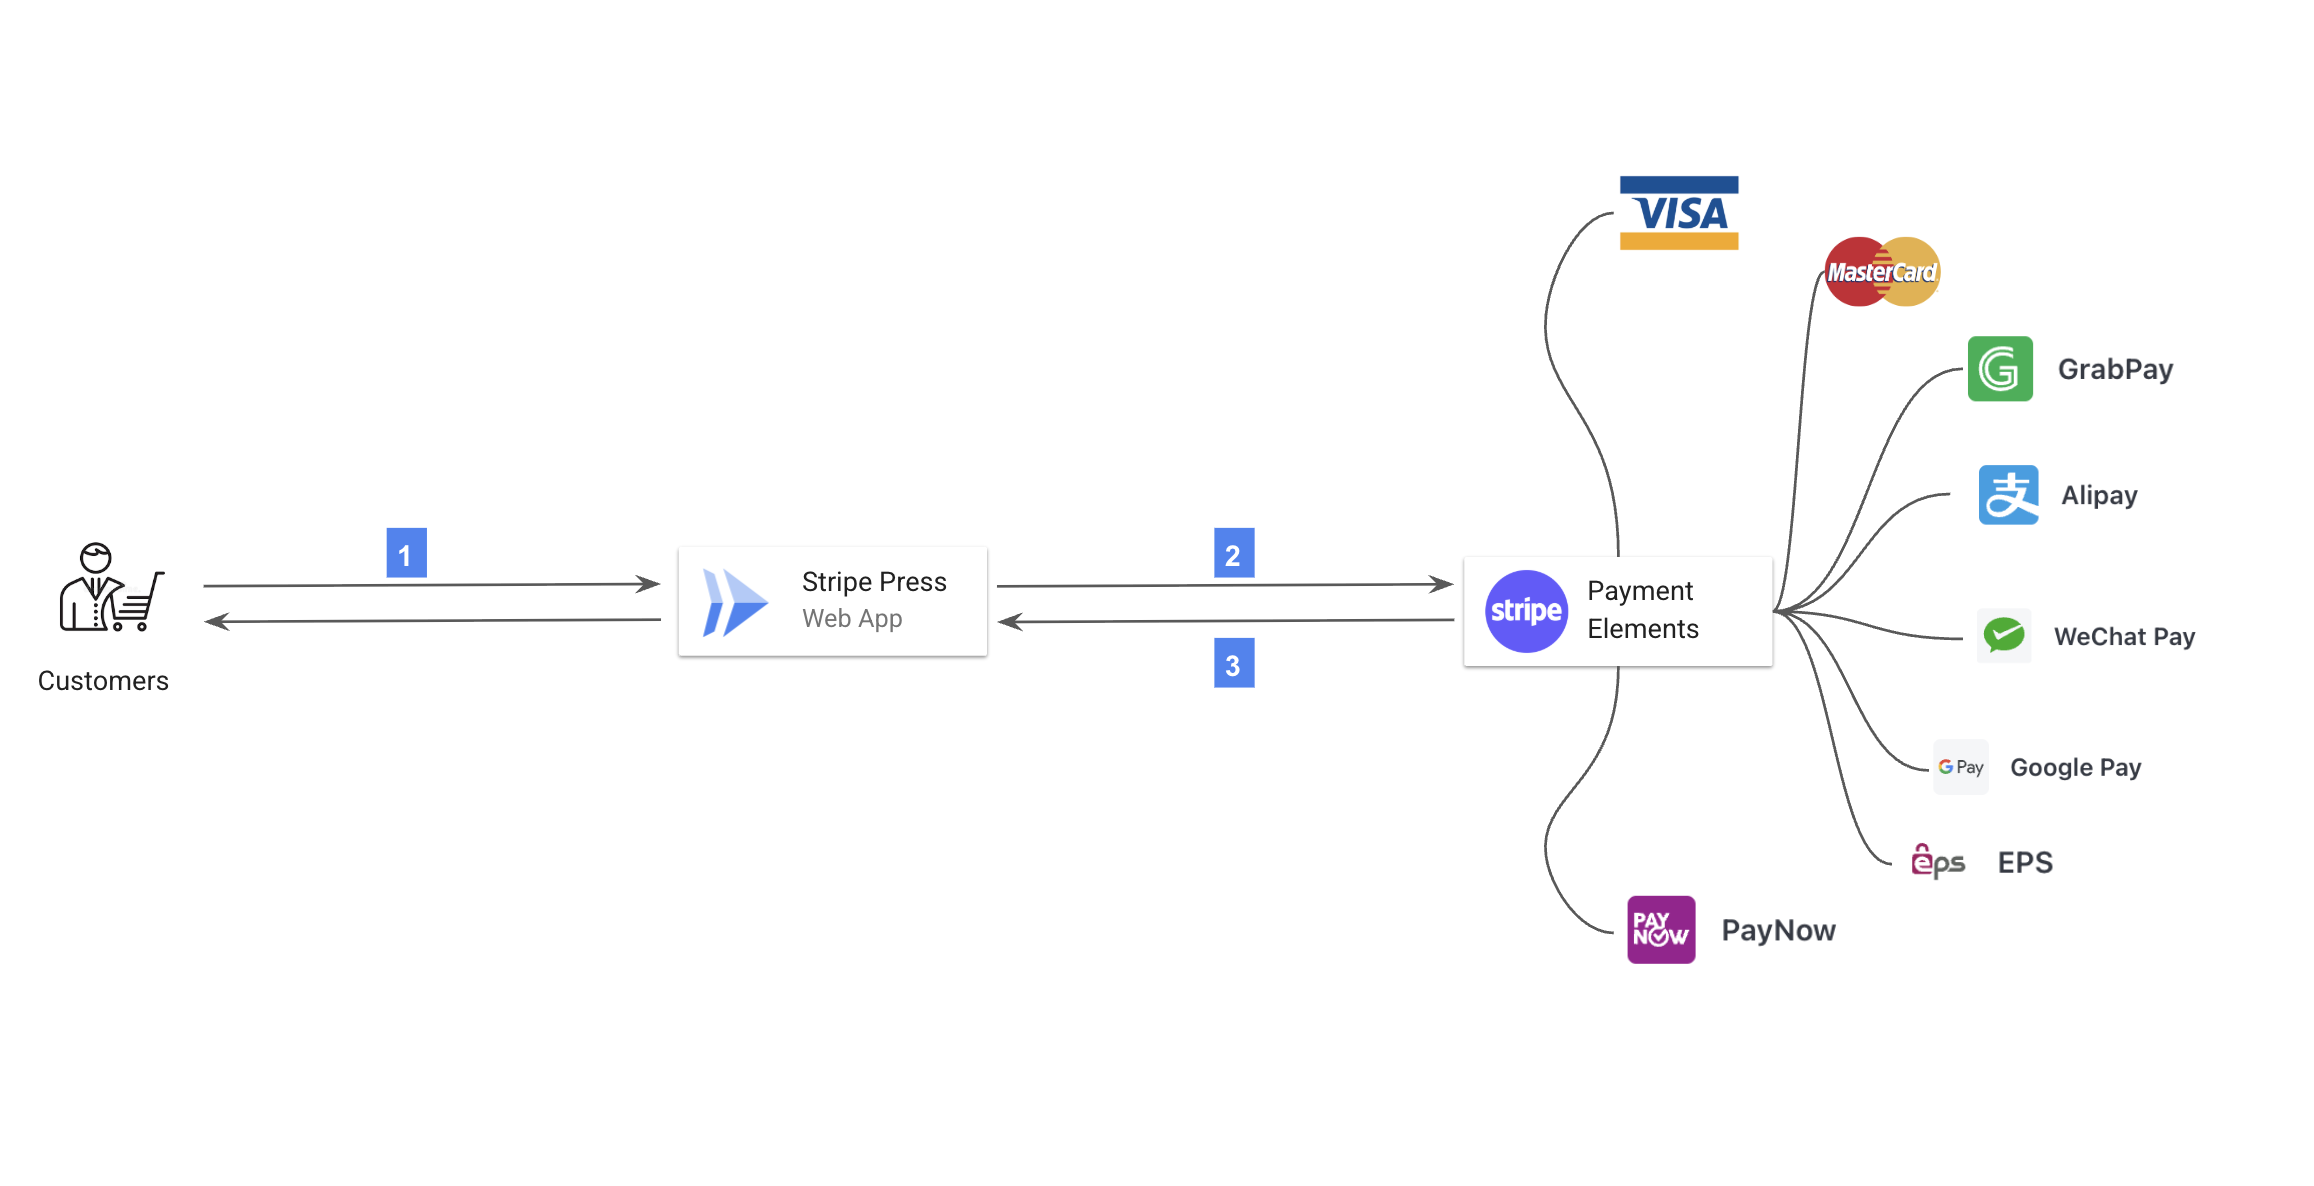
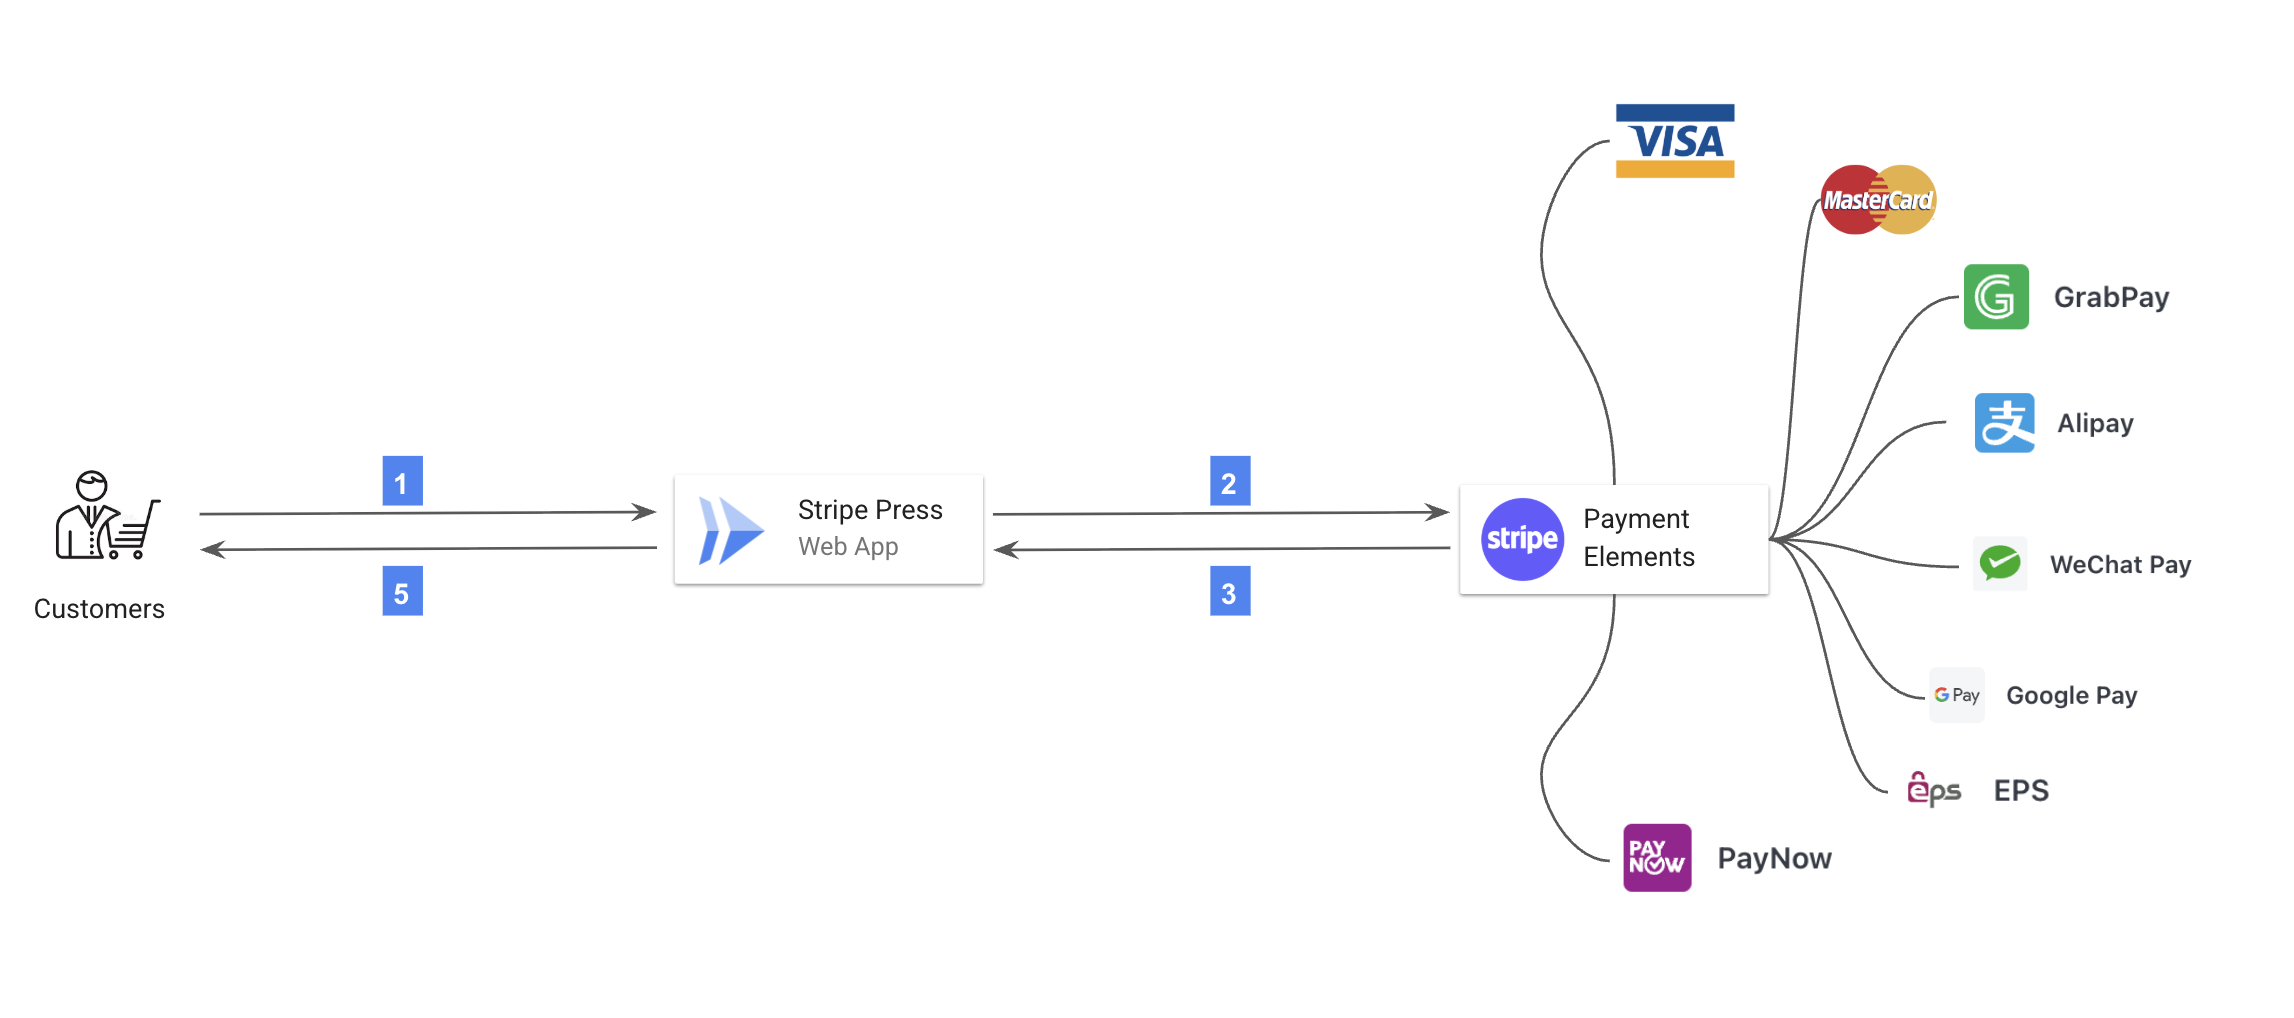
update readme

diff --git a/README.md b/README.md
@@ -6,16 +6,6 @@ The repository demonstrates how to integrate Stripe’s PaymentIntent lifecycle,
 
 
 
-## High level architecture
-
-![System diagram](./public/images/sys.png)
-
-## High level workflow
-
-![Workflow](./public/images/workflow.png)
-
-
-
 ## Application
 
 Using [poetry](https://python-poetry.org/docs/#installation) to manage python environment and dependencies. 
@@ -71,7 +61,7 @@ The assignment was from Su's email.
 
 ### Approach
 
-#### Researching and understanding the core concepts
+#### 1. Researching and understanding the core concepts
 
 I began by researching and understanding the core concepts and architecture of [Stripe's payment platform](https://stripe.com/en-sg/payments). This included:
 
@@ -83,7 +73,7 @@ I began by researching and understanding the core concepts and architecture of [
 
 This foundational knowledge enabled me to make informed architectural decisions and select the most appropriate Stripe APIs and integration patterns for the project.
 
-#### Gained hands-on experience with Stripe's sandbox
+#### 2. Gained hands-on experience with Stripe's sandbox
 
 I gained hands-on experience with [Stripe's sandbox environment](https://docs.stripe.com/sandboxes) to safely experiment with payment flows, error scenarios, and webhook events without risking real funds. This included:
 
@@ -93,10 +83,29 @@ I gained hands-on experience with [Stripe's sandbox environment](https://docs.st
 - I studied a variety of open-source sample projects and code snippets from GitHub, focusing on both backend (Python/Flask) and frontend (JavaScript/Stripe Elements) integrations. This helped me understand best practices, common pitfalls, and efficient implementation patterns.
 - I supplemented my learning by watching [Payment Element using Python](https://www.youtube.com/watch?v=tCSbCk5j3Tk) and tutorial videos on YouTube. These resources provided practical demonstrations of Stripe integration, troubleshooting tips, and insights into real-world use cases, which accelerated my understanding and implementation process.
 
-#### Analyse the baseline repo and planning
+#### 3. Analyse the baseline repo and planning
 I cloned the [repository](https://github.com/marko-stripe/sa-takehome-project-python), resolved initial setup issues to ensure the app runs locally, and planned the integration of Stripe using the Payment Intents API.
 
-### Tasks in action 
+#### 4. Technical design
+
+##### High level architecture
+
+The application integrates Stripe Payment Elements, which are securely embedded in the website via an iframe. These elements are dynamically configured to support a wide range of payment methods. Below is a system diagram illustrating the overall architecture:
+
+![System diagram](./public/images/sys.png)
+
+1 & 2 - Customers interact with the online website throughout their shopping experience.
+3 & 4 - The web application manages the payment process behind the scenes, powered by Stripe.
+
+
+###### High level workflow
+
+Here's a breakdown of the workflow happening behind the scenes:
+
+![Workflow](./public/images/workflow.png)
+
+
+#### 5. Tasks in action 
 - Implemented a dedicated checkout page, integrating Stripe Payment Elements to securely collect payment details from users. I developed supporting JavaScript to handle form submission, client-side validation, and communication with the backend to create PaymentIntents.
 - Created a confirmation (complete) page that displays the outcome of the payment, including the total amount charged and the Stripe Payment Intent ID. I ensured the page dynamically retrieves and presents relevant transaction details to the user.
 - Conducted thorough testing of the payment flow, simulating various scenarios such as successful payments, failed transactions, and required authentication steps. I optimized both frontend and backend code for reliability, user experience, and error handling.
